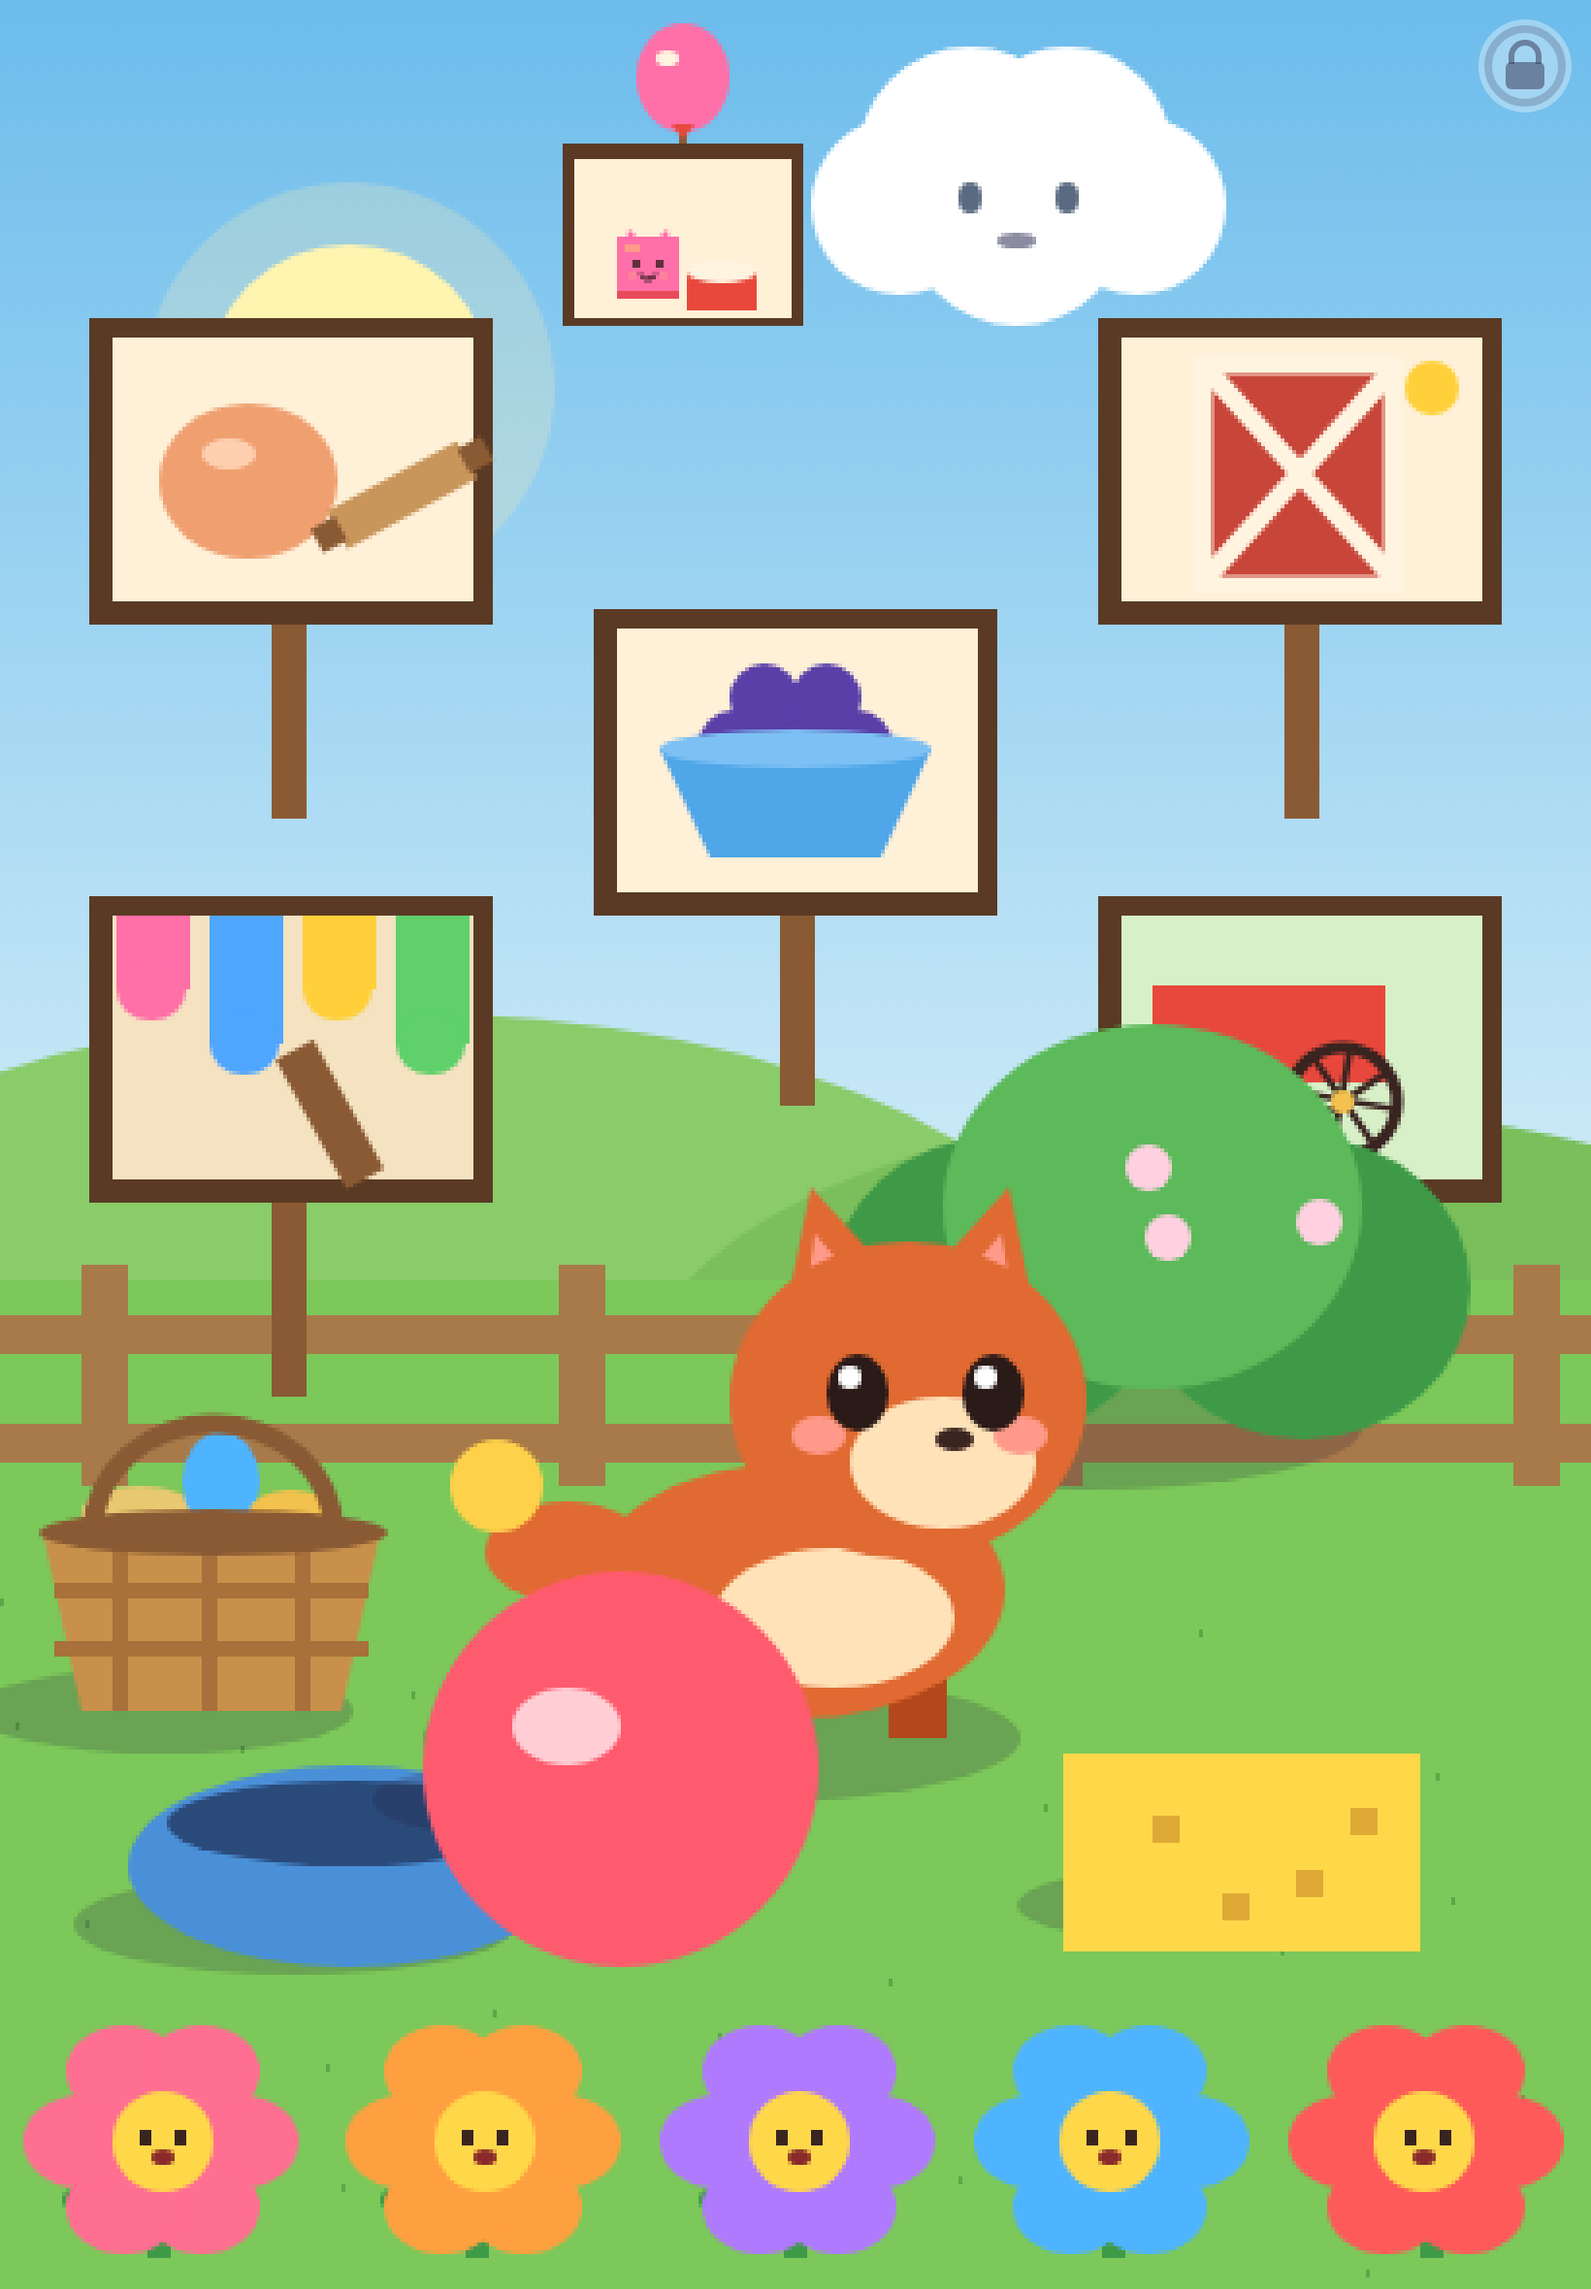
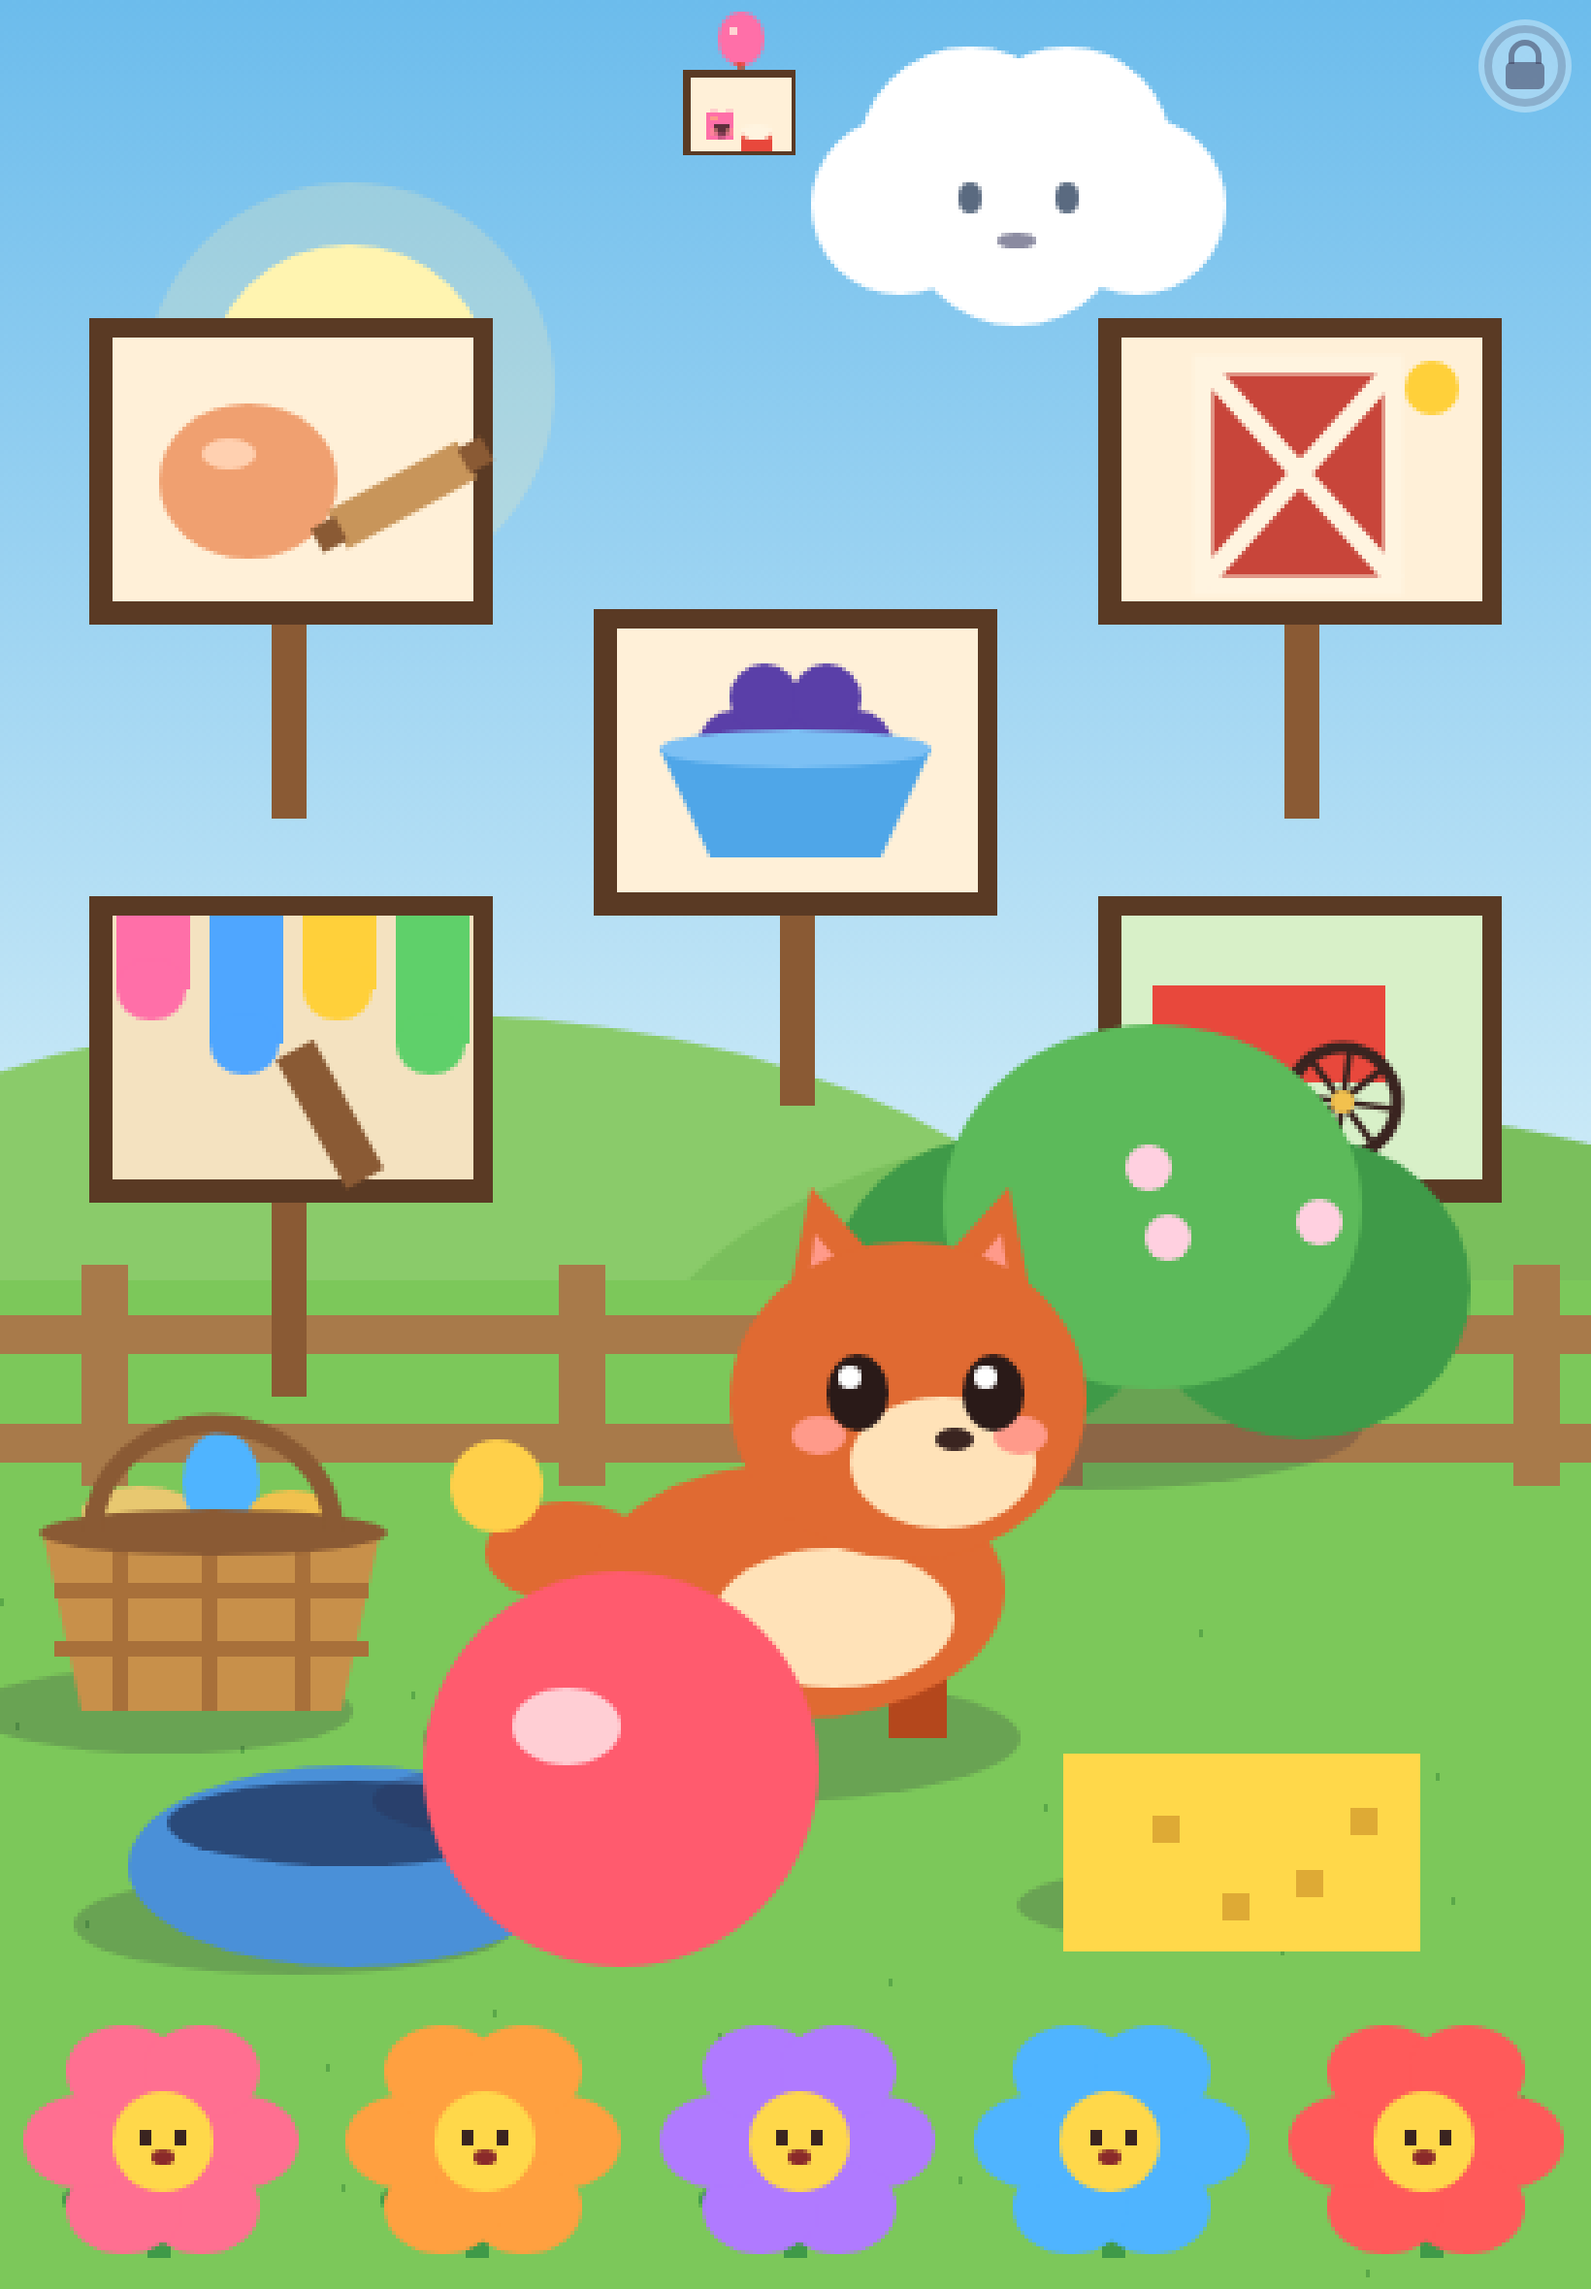
LR-TOYS-POLISH: keep the tall-screen gap when the pack sign shrinks.
An iPad-tall canvas still needs the full face gap from the other signs. Smaller sky sizes are tried at that gap before the sign is allowed closer.

Changed region(s): [[0.3421, 0.0, 0.5287, 0.1547], [0.8085, 0.464, 0.8707, 0.4949]]

diff --git a/games/little-ranch/game.js b/games/little-ranch/game.js
@@ -305,17 +305,26 @@
       }
       return best;
     };
-    return search(1, 2.5) || search(1, 1.5) || search(.72, 1.5) || search(.6, 1.4) || search(.6, 1.2) || search(.48, 1.05) || search(.4, .9) || search(.34, .75) || skySign();
-    function skySign() {
-      const s = .32, rs = R * s * .95, br = rs * .42, y = fence - rs * .27 - 2;
+    // A tall screen's older check wants the full face gap even when the sign itself is smaller, so try that gap at each size before a wide screen is allowed closer.
+    const tall = H >= W * 1.25;
+    const placed = tall
+      ? search(1, 2.5) || search(.72, 2.5) || search(.6, 2.5) || search(.48, 2.5) || search(.4, 2.5) || search(.34, 2.5) || search(.28, 2.5)
+      : search(1, 2.5) || search(1, 1.5) || search(.72, 1.5) || search(.6, 1.4) || search(.6, 1.2) || search(.48, 1.05) || search(.4, .9) || search(.34, .75);
+    return placed || skySign(tall ? 2.5 : 1.4);
+    function skySign(minMul) {
+      const s = .28, rs = R * s * .95, br = rs * .42, y = fence - rs * .27 - 2;
       const cloud = L.cloud, cr = cloud.r;
       const faceBox = { x0: cloud.x - cr * .55, x1: cloud.x + cr * .55, y0: cloud.y - cr * .25, y1: cloud.y + cr * .65 };
       const bodyBox = { x0: cloud.x - cr * 1.35, x1: cloud.x + cr * 1.35, y0: cloud.y - cr * 1.05, y1: cloud.y + cr * .95 };
       const rainBox = { x0: cloud.x - cr * 1.25, x1: cloud.x + cr * 1.25, y0: cloud.y + cr * .3, y1: fence };
-      for (const xf of [.14, .22, .3, .78, .88]) {
-        const x = Math.max(rs * 1.2, Math.min(W - rs * 1.2, W * xf)), b = box({ x, y }, s, 'board');
+      for (const xf of [.08, .14, .22, .3, .5, .7, .78, .88, .94]) {
+        const x = Math.max(rs * 1.2, Math.min(W - rs * 1.2, W * xf)), q = { x, y }, b = box(q, s, 'board');
         const balloon = { x0: x - br, x1: x + br, y0: b.y0 - br * 2.5, y1: b.y0 };
+        const f = faceOf(q, s);
+        const gap = Math.min(...five.map(n => Math.hypot(faceOf(L[n], 1).x - f.x, faceOf(L[n], 1).y - f.y)));
+        if (gap < R * minMul - 1e-6) continue;
         if (balloon.y0 < 1 || b.y1 > fence - 1) continue;
+        if (five.some(n => overlap(b, box(L[n], 1, 'board')) || overlap(b, box(L[n], 1, 'post')) || overlap(balloon, box(L[n], 1, 'board')))) continue;
         if ([b, balloon].some(box2 => overlap(box2, faceBox) || overlap(box2, bodyBox) || overlap(box2, rainBox))) continue;
         if (meadow.some(p => overlap(b, p) || overlap(balloon, p))) continue;
         return { x, y, s };
